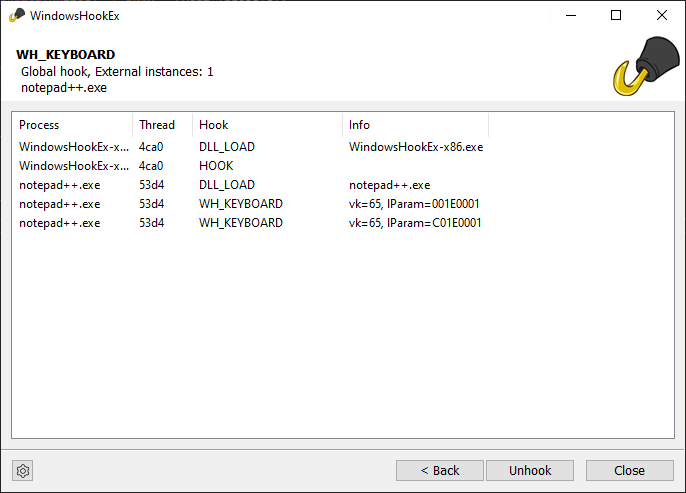
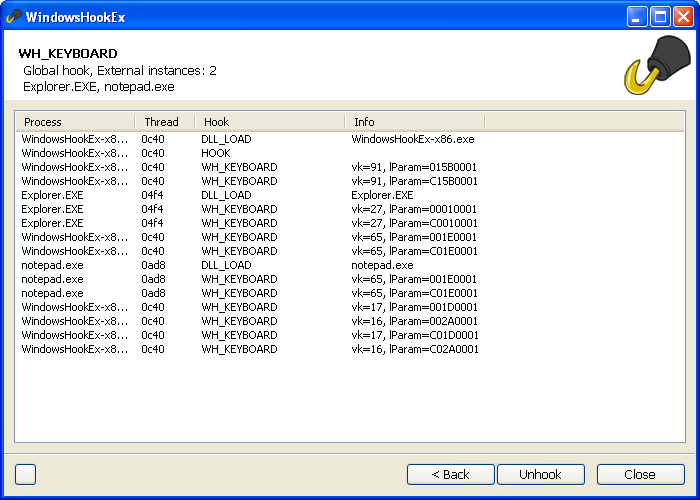
Update page + screenshot to indicate Windows XP support

Changed region(s): [[0.0, 0.0, 1.0, 1.0]]

diff --git a/README.md b/README.md
@@ -1,7 +1,9 @@
 # WindowsHookEx
 
 [![Build status](https://ci.appveyor.com/api/projects/status/1v33foo1rc43xc10/branch/master?svg=true)](https://ci.appveyor.com/project/learn-more/windowshookex/branch/master)
-[![License: MIT](https://img.shields.io/badge/License-MIT-yellow.svg)](https://opensource.org/licenses/MIT)
+[![License: MIT](https://img.shields.io/badge/License-MIT-yellow.svg)](https://spdx.org/licenses/MIT)
+![GitHub release (latest SemVer including pre-releases)](https://img.shields.io/github/v/release/learn-more/WindowsHookEx?include_prereleases&sort=semver)
+![Works on Windows XP](https://img.shields.io/badge/Works%20on-Windows%20XP-blue)
 
 ![Logo](src/res/logo.png)
 
@@ -22,5 +24,5 @@ New and deleted Atoms are highlighted:
 ![Atom viewer](docs/WindowsHookEx-Atoms.png)
 
 
-The UI is based on the [Wizard-2020 Project](https://github.com/enlyze/Wizard-2020/) from Enlyze
+The UI is based on the excellent [Wizard-2020 Project](https://github.com/enlyze/Wizard-2020/) from Enlyze
 

diff --git a/docs/index.md b/docs/index.md
@@ -5,7 +5,8 @@ title: WindowsHookEx
 
 # WindowsHookEx
 
-![Example](WindowsHookEx-Hooks.png)
+Running on Windows XP:
+![Example on Windows XP](WindowsHookEx-Hooks.png)
 
 ## Why WindowsHookEx?
 When developing tooling to work with [Windows Hooks](https://docs.microsoft.com/en-us/windows/win32/api/winuser/nf-winuser-setwindowshookexa), it is usefull to see it in action.
@@ -44,6 +45,7 @@ Additionally, when working on [ReactOS](https://reactos.org) it is a good tool t
 * An Atom viewer, showing [Global and User Atoms](https://docs.microsoft.com/en-us/windows/win32/dataxchg/about-atom-tables).
     * Highlight Added Atoms (green)
     * Highlight Removed Atoms (red)
+* Works on Windows XP / Server 2003 and newer
 
 
 
